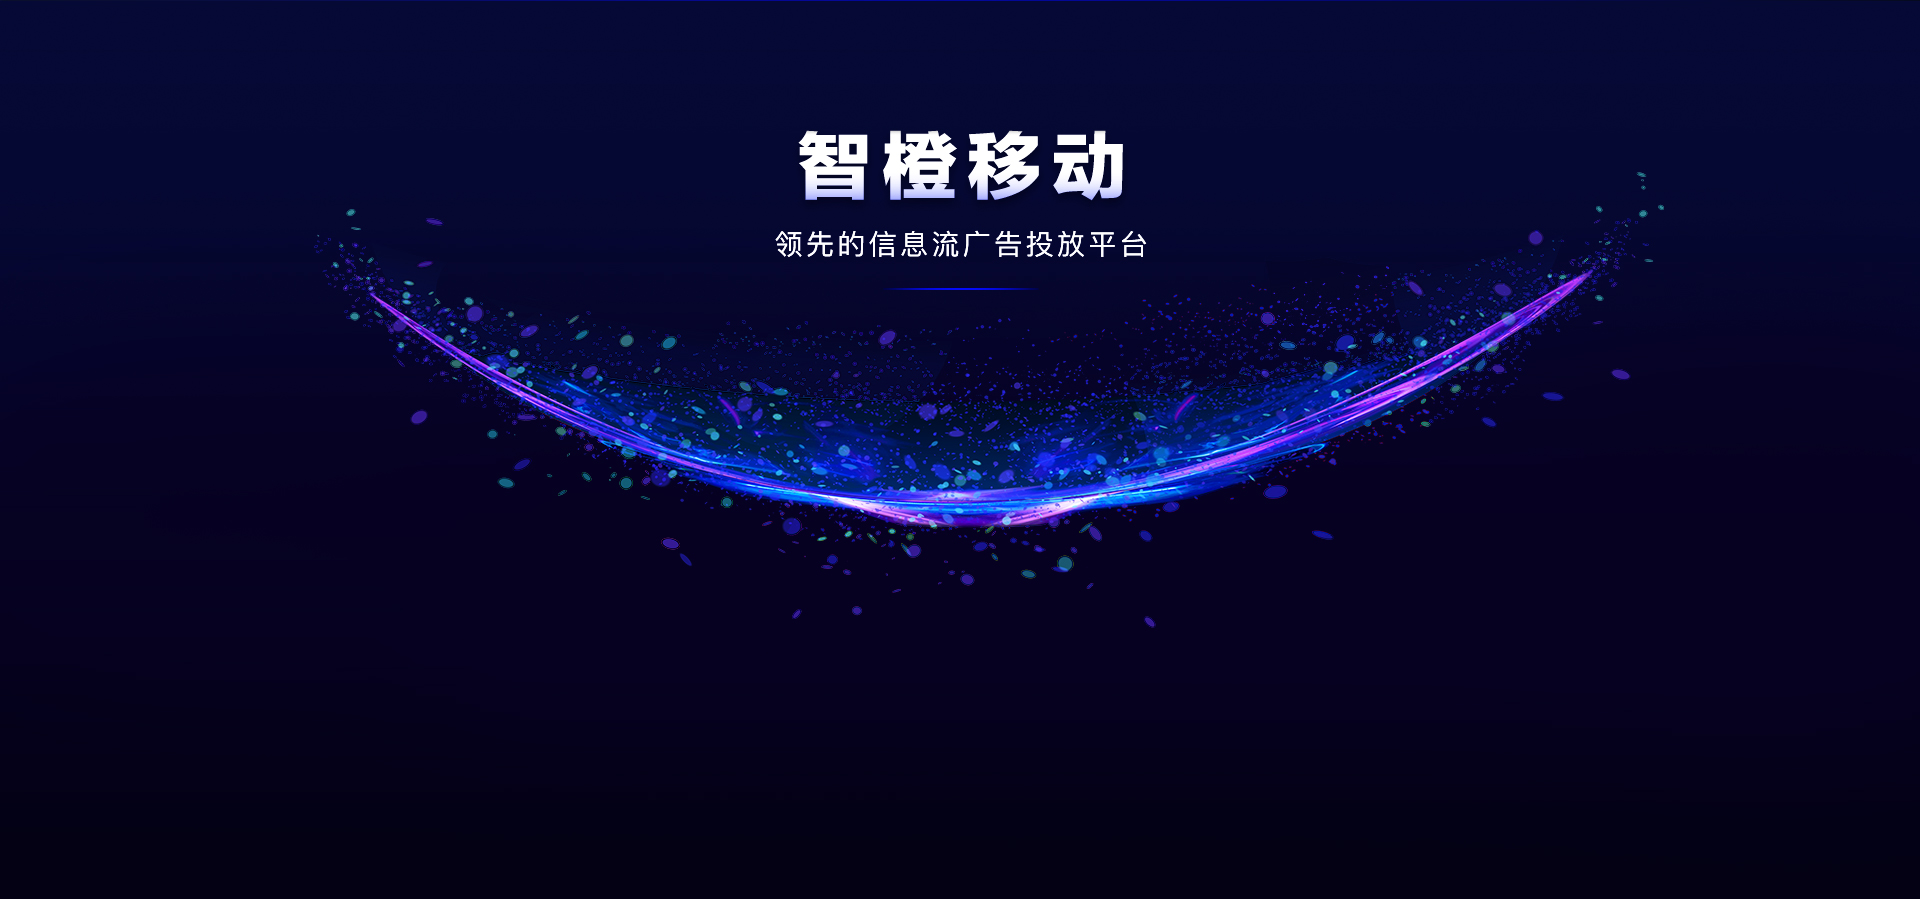
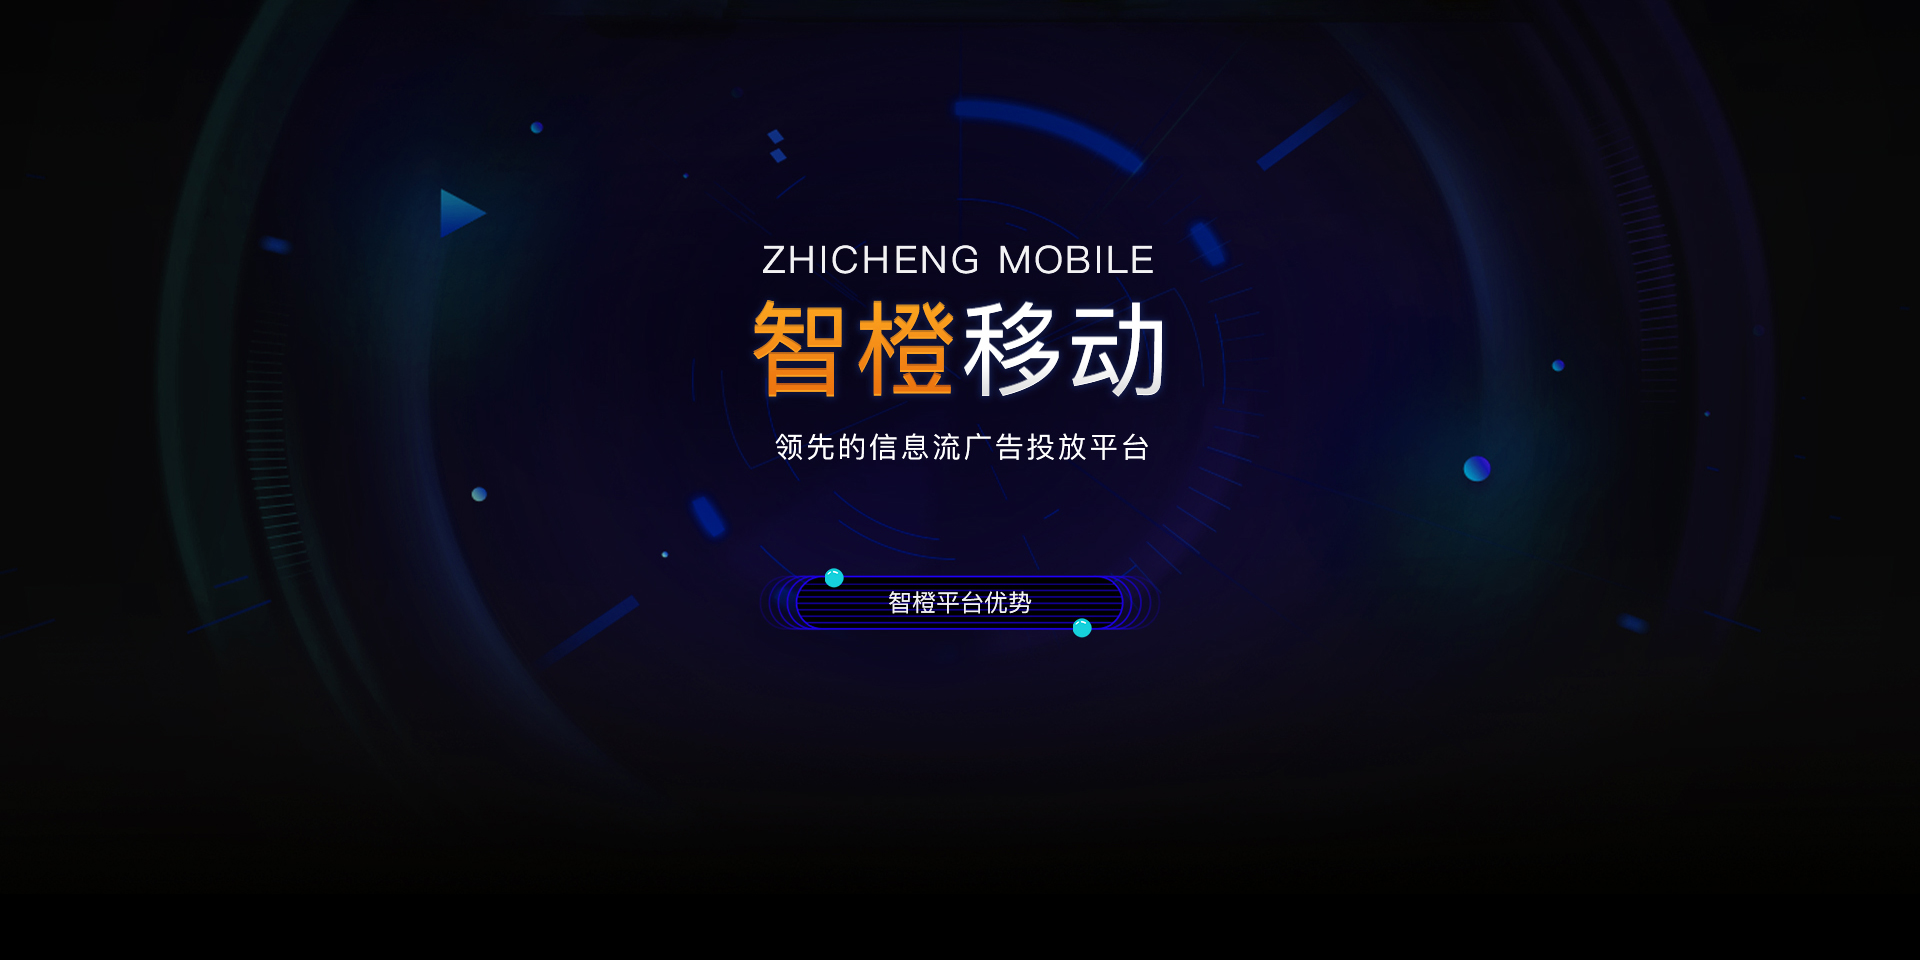
'1'

diff --git a/src/app/boardtwo.component.less b/src/app/boardtwo.component.less
@@ -56,7 +56,7 @@
 .container{ margin-top: 60px;}
 .banner{ position: relative; min-width: 1200px;}
 .banner>img{ display: block; width: 100%; min-width: 1200px;}
-.banner .banner_box{position: absolute; width: 70%; left: 15%; bottom: 100px; display: flex;}
+.banner .banner_box{position: absolute; width: 70%; left: 15%; bottom: 50px; display: flex;}
 .banner .banner_list{flex: 1; text-align: center;}
 .banner .banner_list p{ color: #fff; font-size: 20px; font-weight: 600; margin-top: 20px;}
 .banner .banner_list span{ color: #fff; font-size: 16px; margin-top: 10px;}
@@ -81,7 +81,7 @@
 
 //登录样式
 
-.login{position: fixed; bottom: 0px; height: 68px; width: 100%; background:  url("https://img.zcdsp.com/zcmobi-assets/index/login_cont_bg.jpg") repeat; padding-top: 15px;}
+.login{position: fixed; bottom: 0px; height: 68px; width: 100%; background-color:rgba(0,0,0,0.7); padding-top: 15px;}
 .login .login_box{width: 1200px; margin: 0 auto; position: relative;}
 .login .login_box input{background: #fff; width: 210px; color: black; font-size: 14px; border: 1px solid #666666; height: 36px; text-indent: 10px; margin-right: 10px;}
 .login .login_box .validate{width: 106px;}
@@ -219,7 +219,7 @@ input.input-color{
 }
 
 .footer{
-  background-color: rgb(0,0,0);
+  background-color: rgb(0,0,0,0.7);
   color:#fff;
   position: fixed;
   bottom:0;
@@ -236,8 +236,8 @@ input.input-color{
   > div {
     float: left;
     margin-right: 28px;
-    width: 46px;
-    height: 46px;
+    width: 45px;
+    height: 45px;
     &.active {
       background-position: 0  -46px !important;
     }

diff --git a/src/app/boardtwo.component.html b/src/app/boardtwo.component.html
@@ -36,7 +36,8 @@
 
       <div class="banner" #home id="home">
         <!--src/assets/index2/banner_bg.png-->
-        <img src="https://img.zcdsp.com/zcmobi-assets/index/banner_bg.jpg">
+        <!--<img src="https://img.zcdsp.com/zcmobi-assets/index/banner_bg.jpg">-->
+        <img src="assets/index2/banner_bg.png">
 
         <div class="banner_box">
 
